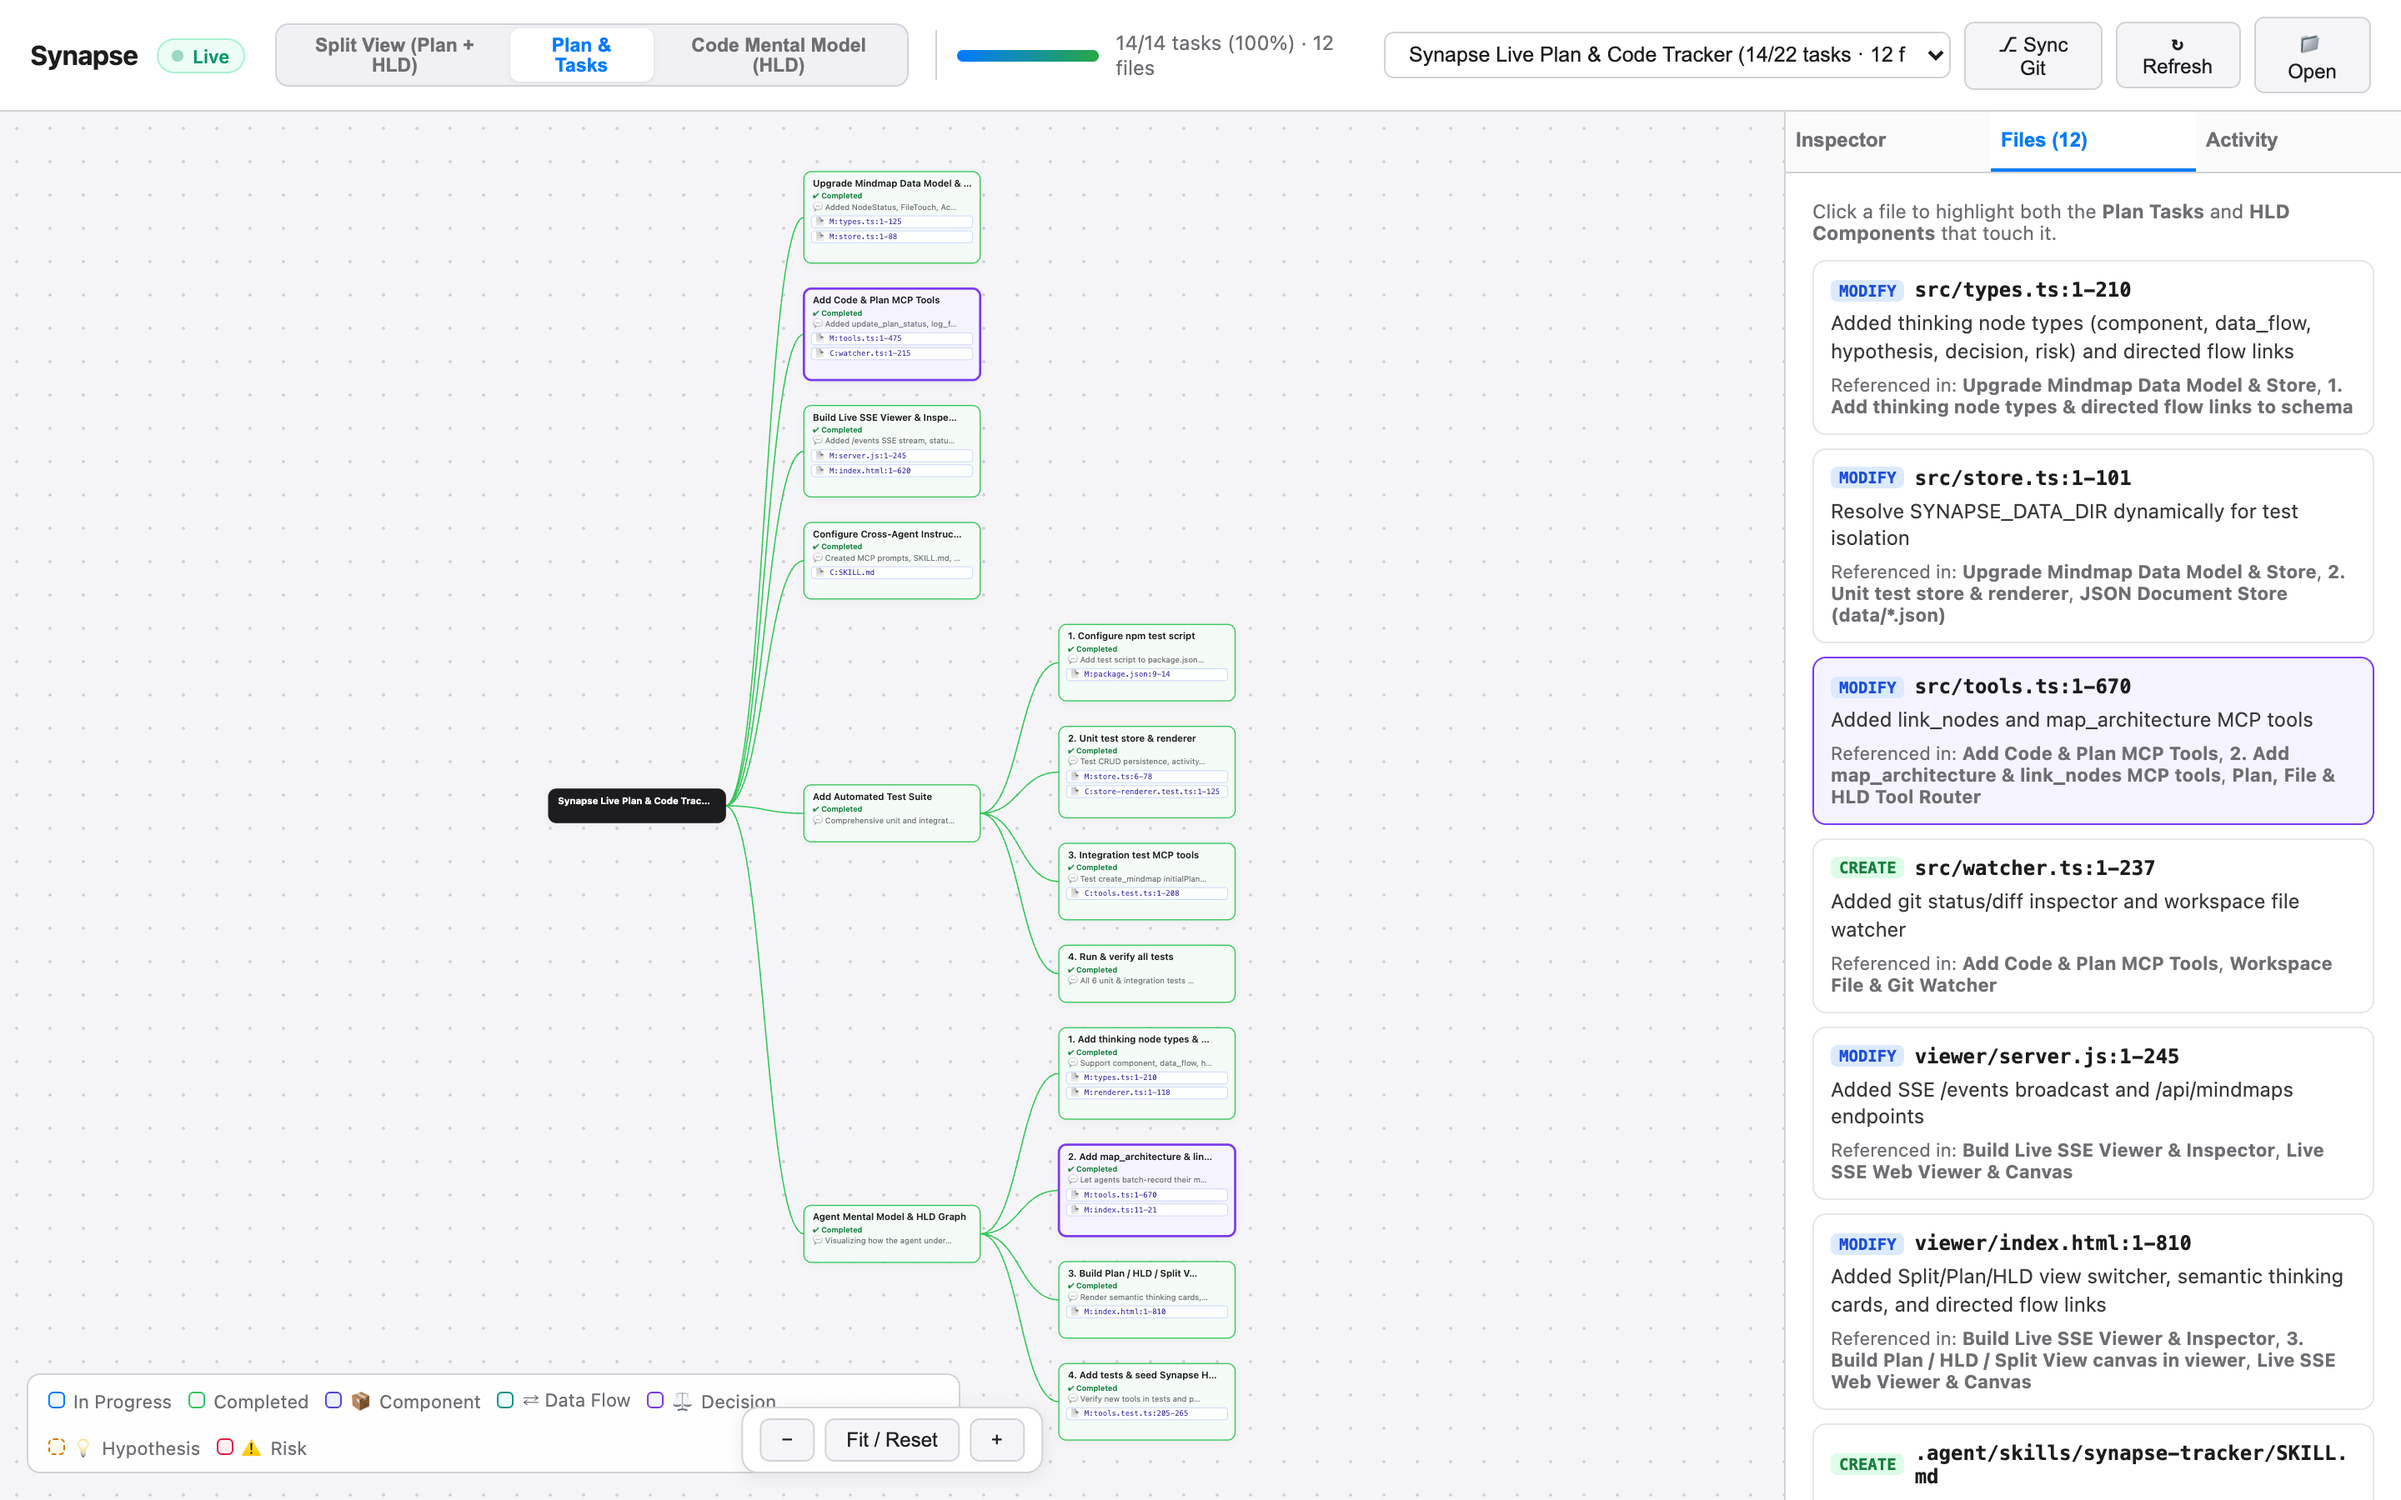
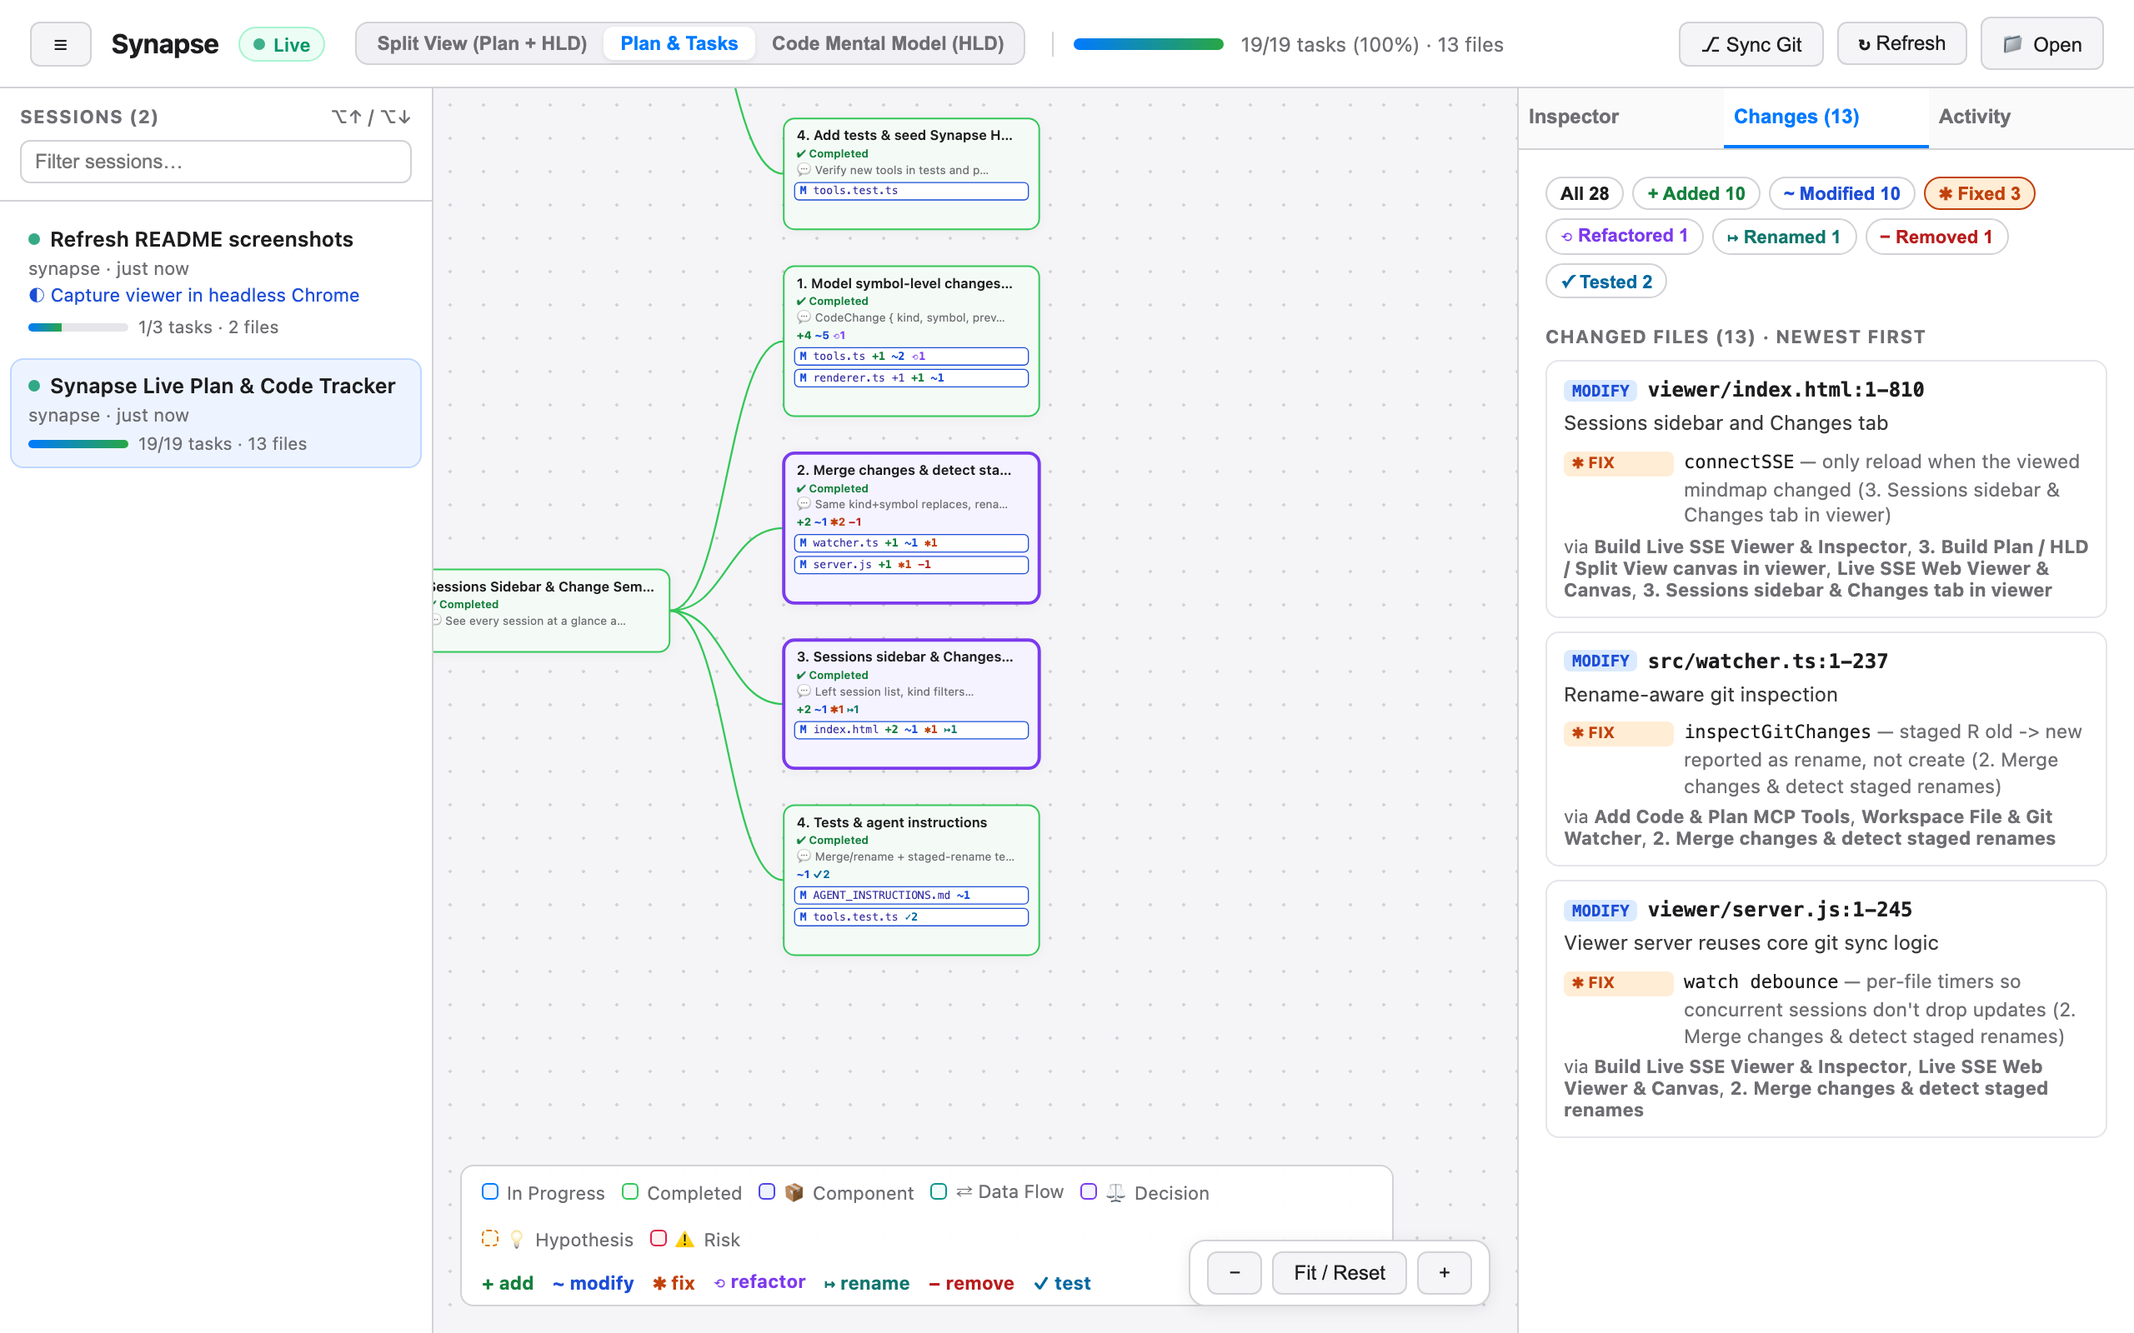
docs: re-take README screenshots with sessions sidebar and Changes tab

diff --git a/docs/HANDOFF.md b/docs/HANDOFF.md
@@ -81,12 +81,11 @@ Added to the global config `~/.config/opencode/opencode.json` in the V2 format (
 - Git only reports a rename when it is **staged** (`git mv` / `git add`). Unstaged renames still appear as delete + create. The fs watcher's auto-detected events don't detect renames either.
 - `npm run viewer` now depends on `dist/` (gitignored). `setup.sh` and the `viewer` script both build it.
 - The viewer has no automated UI tests; it was verified manually in a headless browser only.
-- The README screenshots (`docs/screenshots/*`) predate the sidebar and Changes tab.
 - The viewer shows unknown change kinds as `modify`. The server does not validate `kind` against the enum; this matches how existing fields are handled.
 
 ## Suggested next steps
-1. Review and commit (13 modified files + this doc).
-2. Re-take the README screenshots.
+1. ~~Review and commit~~ (done: `180ef2e`).
+2. ~~Re-take the README screenshots~~ (done: 1280×800 @2x, from a seeded temp copy of `data/`).
 3. Optional: OpenCode sends `_meta["ai.opencode/sessionID"]` on each tool call, which could auto-link a mindmap to its OpenCode session (e.g. show the session ID in the sidebar, or reuse the mindmap per session).
 4. Optional: expose `files` / `changes` on `update_node` (the type supports it but the schema doesn't advertise it; this predates this session).
 5. Optional: let the change-kind filter also apply to the Inspector, or add a session-level change tally to `/api/mindmaps` for the sidebar.

diff --git a/README.md b/README.md
@@ -15,14 +15,14 @@ Visualize how the agent understands the system architecture, data flows, design 
 ![Code Mental Model (HLD) View](docs/screenshots/hld-mental-model.png)
 
 ### 2. Split View (Plan Tree + Code Mental Model)
-See the full execution plan and the architectural mental model side-by-side in a single live canvas:
+See the full execution plan and the architectural mental model side-by-side in a single live canvas. The **Sessions** panel on the left lists every mindmap with its active task, progress, and a live dot; filter it or switch with **⌥↑/⌥↓**:
 
 ![Split View – Plan + HLD](docs/screenshots/split-view.png)
 
-### 3. Plan & Tasks View + Cross-Node File Highlighting
-Click any file in the **Files** tab to highlight every plan task and HLD component that touched that file:
+### 3. Plan & Tasks View + Changes Tab
+The **Changes** tab shows what kind of change the agent made in each file (added, modified, fixed, refactored, renamed, removed, tested). Pick a kind to highlight every plan task and HLD component with that kind of change:
 
-![Plan & Tasks View with File Highlighting](docs/screenshots/plan-and-files.png)
+![Plan & Tasks View with the Changes tab filtered to fixes](docs/screenshots/plan-and-files.png)
 
 ### 4. Live Activity Stream
 Track a real-time chronological log of every plan update, HLD mapping, and file edit:
